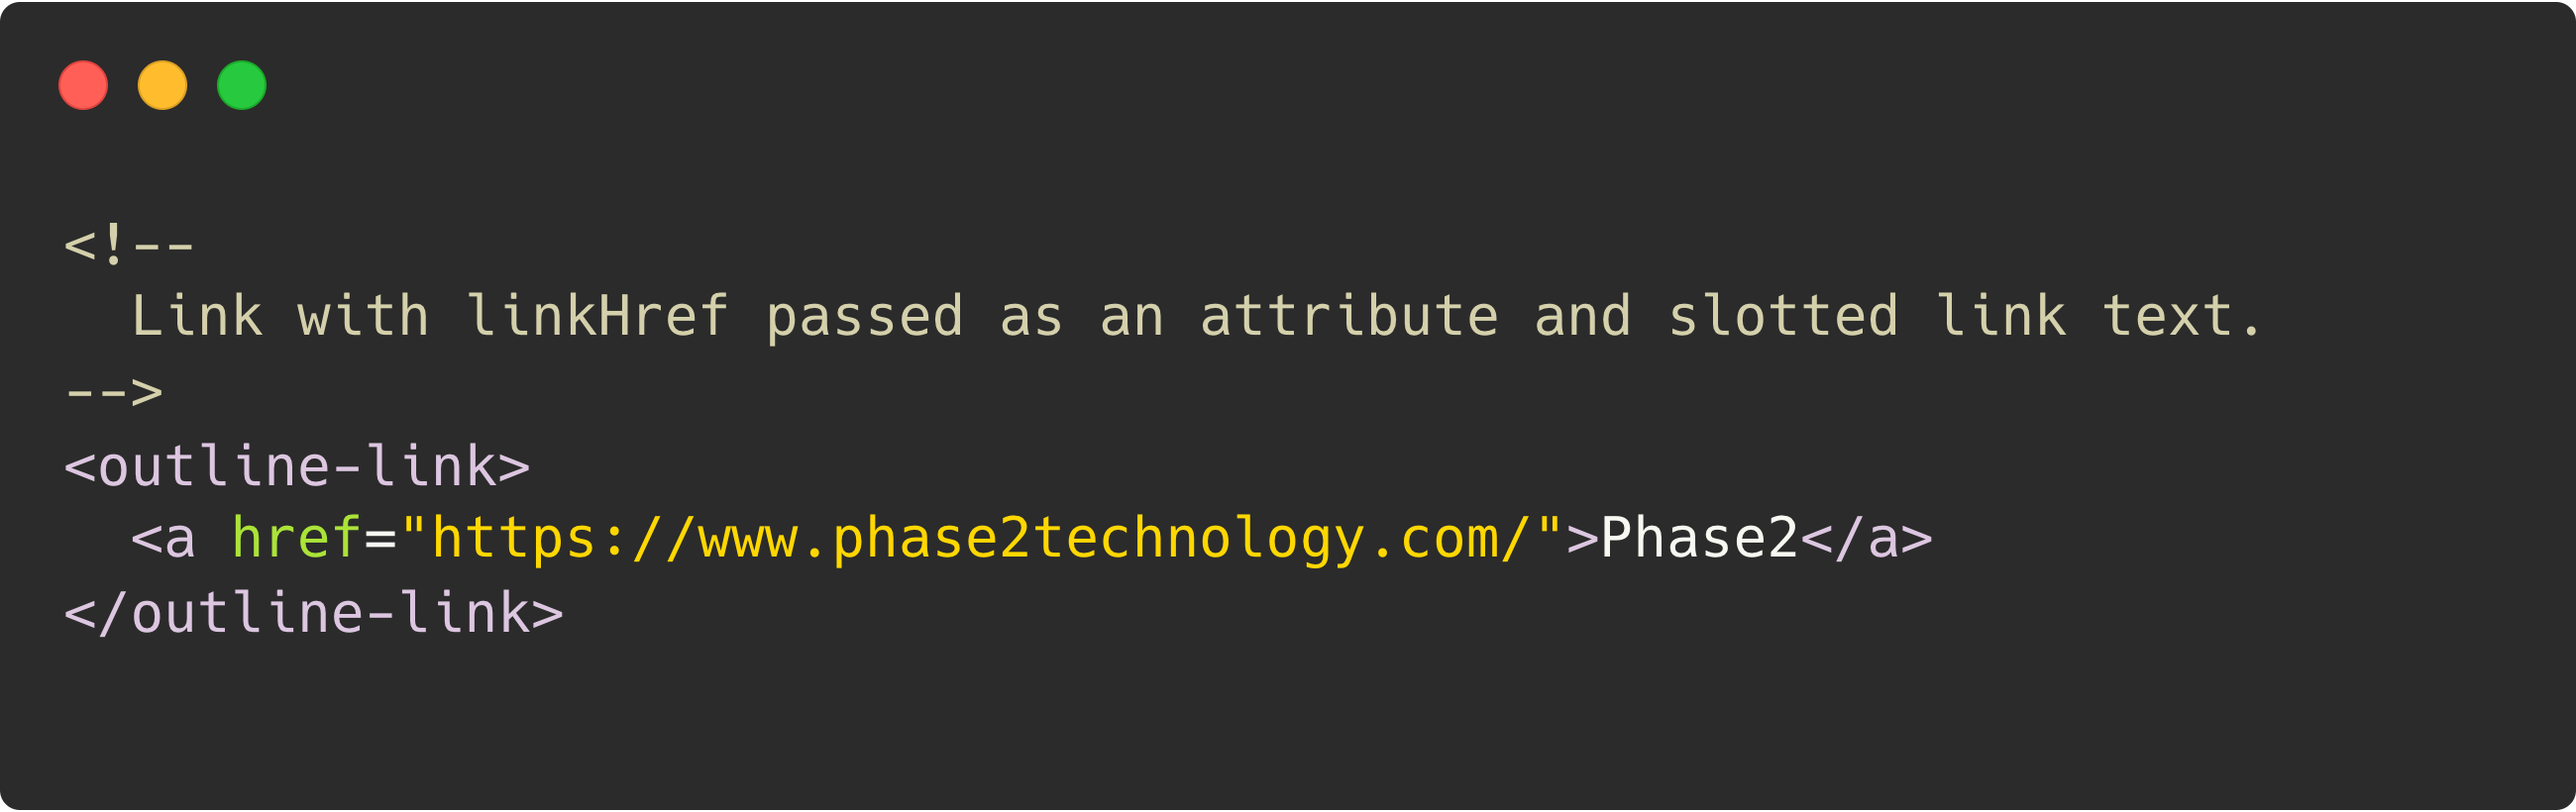
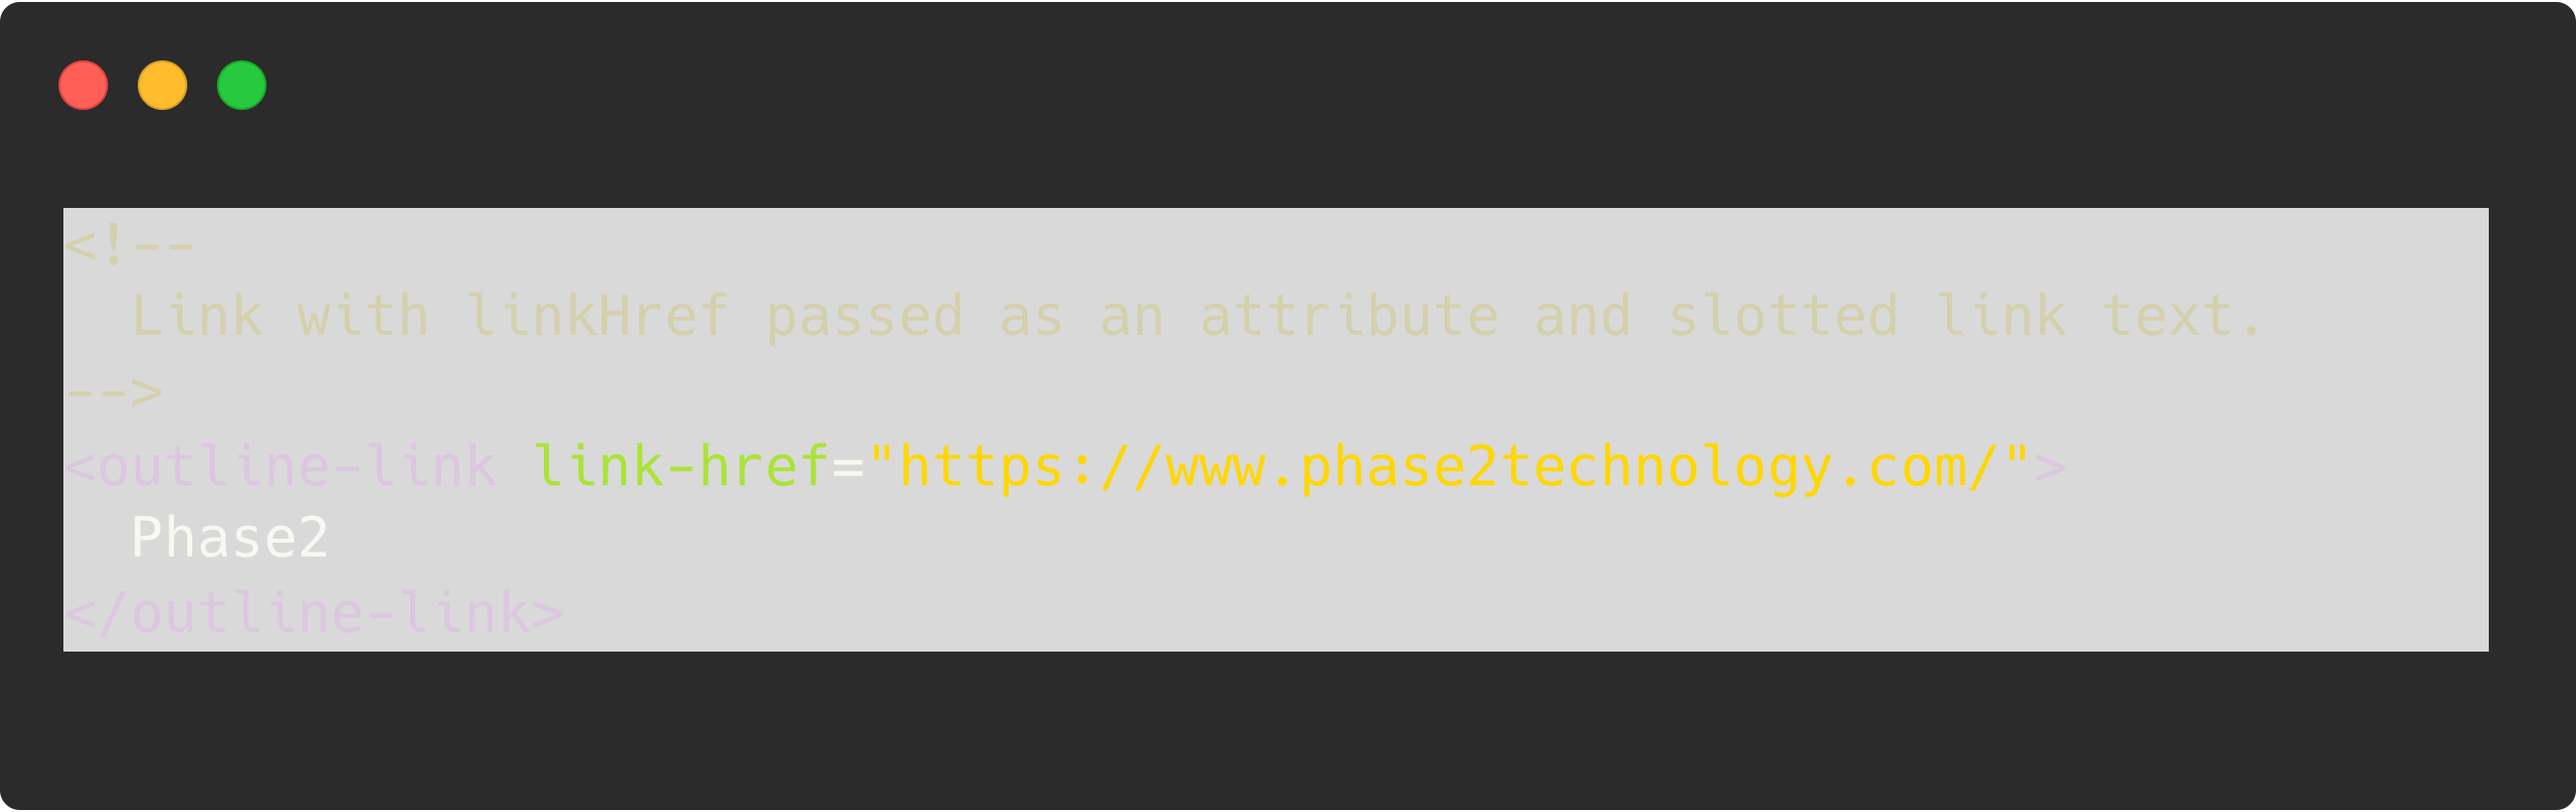
Updates for Snippet 12, and removing 15 or another article.

diff --git a/snippets/snippet-12.html b/snippets/snippet-12.html
@@ -1,6 +1,6 @@
 <!-- 
   Link with linkHref passed as an attribute and slotted link text. 
 -->
-<outline-link>
-  <a href="https://www.phase2technology.com/">Phase2</a>
+<outline-link link-href="https://www.phase2technology.com/">
+  Phase2
 </outline-link>

diff --git a/README.md b/README.md
@@ -28,7 +28,7 @@
 
 - [Snippet 11](https://carbon.now.sh/?bg=rgba%28171%2C184%2C195%2C0%29&t=a11y-dark&wt=none&l=htmlmixed&width=650&ds=false&dsyoff=20px&dsblur=68px&wc=true&wa=false&pv=0px&ph=0px&ln=false&fl=1&fm=Hack&fs=14px&lh=133%25&si=false&es=4x&wm=false&code=%253C%21--%2520%250A%2520%2520Create%2520a%2520fully%2520slotted%2520link.%250A%2520%2520This%2520relies%2520on%2520the%2520consumer%2520to%2520build%2520any%2520markup%2520required%250A%2520%2520to%2520render%2520the%2520actual%2520link%2520and%2520linked%2520item%28s%29.%250A--%253E%250A%253Coutline-link%253E%250A%2520%2520%253Ca%2520href%253D%2522https%253A%252F%252Fwww.phase2technology.com%252F%2522%2520target%253D%2522_blank%2522%253E%250A%2520%2520%2520%2520%253Cimg%2520src%253D%2522%252Flogo.png%2522%2520alt%253D%2522Logo%2520image%2520for%2520Phase2%2520Technology%2522%2520%252F%253E%250A%2520%2520%253C%252Fa%253E%250A%253C%252Foutline-link%253E%250A)
 
-- [Snippet 12](https://carbon.now.sh/?bg=rgba%28171%2C184%2C195%2C0%29&t=a11y-dark&wt=none&l=htmlmixed&width=650&ds=false&dsyoff=20px&dsblur=68px&wc=true&wa=false&pv=0px&ph=0px&ln=false&fl=1&fm=Hack&fs=14px&lh=133%25&si=false&es=4x&wm=false&code=%253C%21--%2520%250A%2520%2520Link%2520with%2520linkHref%2520passed%2520as%2520an%2520attribute%2520and%2520slotted%2520link%2520text.%2520%250A--%253E%250A%253Coutline-link%253E%250A%2520%2520%253Ca%2520href%253D%2522https%253A%252F%252Fwww.phase2technology.com%252F%2522%253EPhase2%253C%252Fa%253E%250A%253C%252Foutline-link%253E%250A)
+- [Snippet 12](https://carbon.now.sh/?bg=rgba%28171%2C184%2C195%2C0%29&t=a11y-dark&wt=none&l=htmlmixed&width=650&ds=false&dsyoff=20px&dsblur=68px&wc=true&wa=false&pv=0px&ph=0px&ln=false&fl=1&fm=Hack&fs=14px&lh=133%25&si=false&es=4x&wm=false&code=%253C%21--%2520%250A%2520%2520Link%2520with%2520linkHref%2520passed%2520as%2520an%2520attribute%2520and%2520slotted%2520link%2520text.%2520%250A--%253E%250A%253Coutline-link%2520link-href%253D%2522https%253A%252F%252Fwww.phase2technology.com%252F%2522%253E%250A%2520%2520Phase2%250A%253C%252Foutline-link%253E%250A)
 
 - [Snippet 13](https://carbon.now.sh/?bg=rgba%28171%2C184%2C195%2C0%29&t=a11y-dark&wt=none&l=htmlmixed&width=650&ds=false&dsyoff=20px&dsblur=68px&wc=true&wa=false&pv=0px&ph=0px&ln=false&fl=1&fm=Hack&fs=14px&lh=133%25&si=false&es=4x&wm=false&code=%253C%21--%2520Link%2520with%2520linkHref%2520and%2520linkText%2520passed%2520as%2520attributes.%2520%2520--%253E%250A%253Coutline-link%250A%2520%2520link-href%253D%2522https%253A%252F%252Fwww.phase2technology.com%252F%2522%250A%2520%2520link-text%253D%2522Phase2%2522%250A%253E%250A%253C%252Foutline-link%253E%250A)
 
